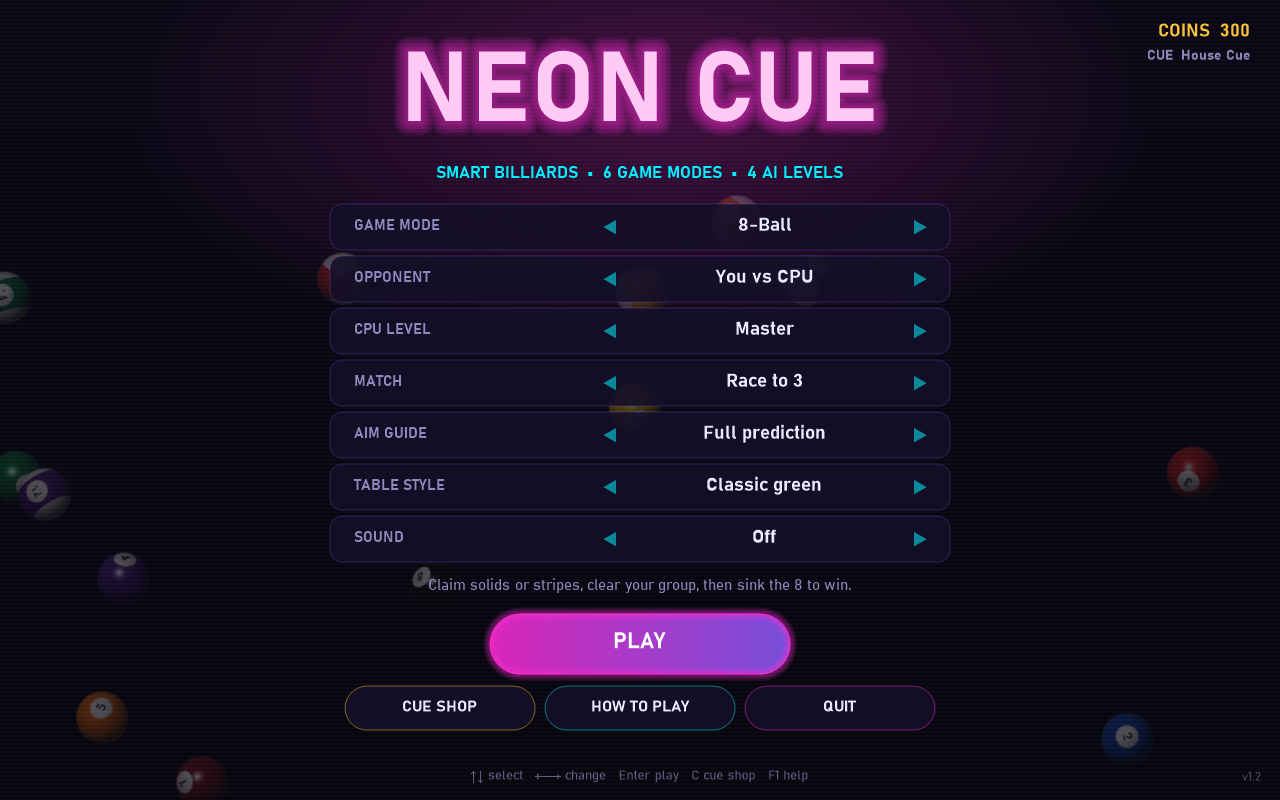
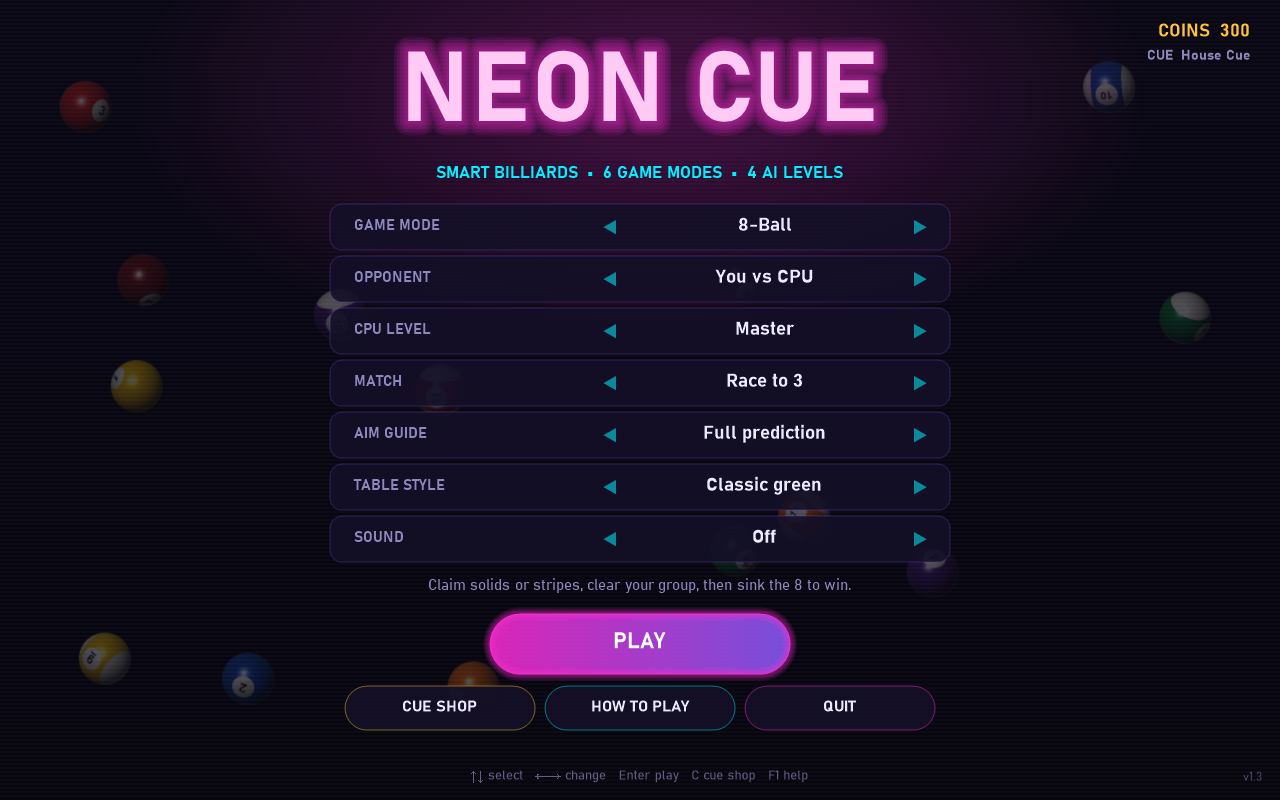
Menu: v1.3 label and updated shooting help

diff --git a/src/NeonCue/Screens/MenuScreen.cs b/src/NeonCue/Screens/MenuScreen.cs
@@ -217,7 +217,7 @@ sealed class MenuScreen : IScreen
         var cue = cfg.Equipped;
         Gfx.Text(g, $"COINS  {cfg.Coins:N0}", Theme.F(18 * u, FontStyle.Bold), Theme.Amber, new RectangleF(s.Width - 336 * u, 20 * u, 310 * u, 26 * u), StringAlignment.Far);
         Gfx.Text(g, $"CUE  {cue.Name}", Theme.F(14 * u, FontStyle.Bold), CueArt.TierColor(cue.Tier), new RectangleF(s.Width - 336 * u, 46 * u, 310 * u, 22 * u), StringAlignment.Far);
-        Gfx.Text(g, "v1.2", Theme.F(12 * u), Theme.A(Theme.TextDim, 120), new RectangleF(0, s.Height - 34 * u, s.Width - 16 * u, 24 * u), StringAlignment.Far);
+        Gfx.Text(g, "v1.3", Theme.F(12 * u), Theme.A(Theme.TextDim, 120), new RectangleF(0, s.Height - 34 * u, s.Width - 16 * u, 24 * u), StringAlignment.Far);
 
         if (showHelp) DrawHelp(g, s);
     }
@@ -257,7 +257,7 @@ sealed class MenuScreen : IScreen
 
         string controls =
             "Aim — move the mouse; the cue follows it.\n" +
-            "Shoot — press and drag back from the target, release. Further = harder.\n" +
+            "Shoot — press (on the cue ball or the target), drag back, release. Further = harder.\n" +
             "Fine aim — mouse wheel or ← →  (hold Shift for big steps).\n" +
             "Keyboard shot — ↑ ↓ set power, Space shoots.\n" +
             "Spin — click the cue ball widget (bottom right) or W A S D. R resets.\n" +
